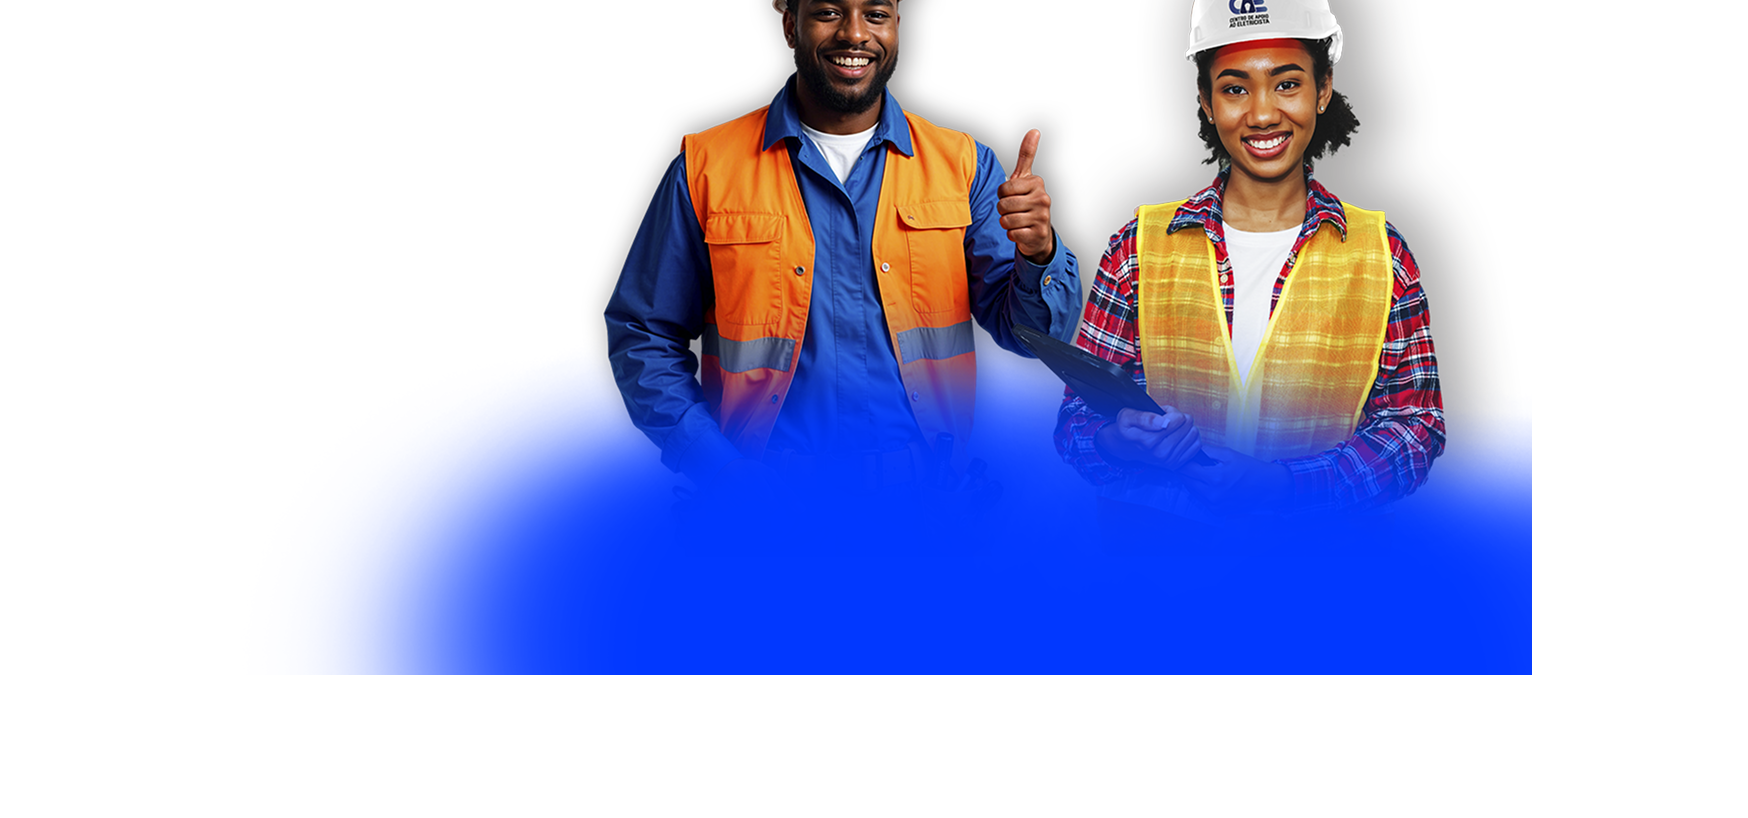
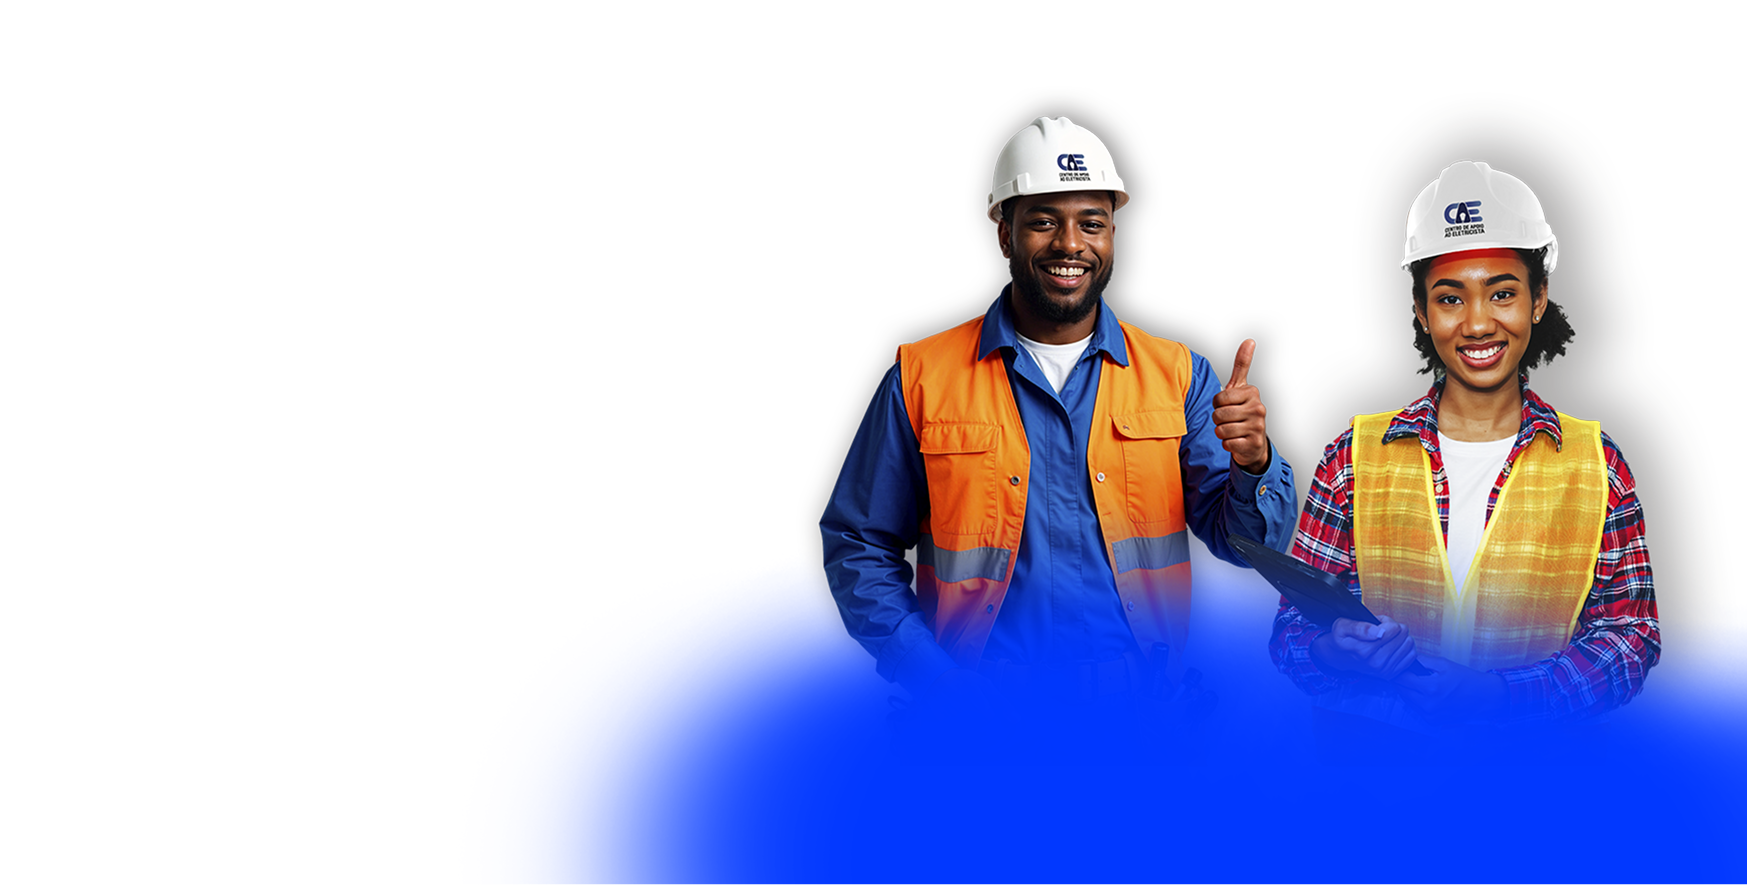
feat: layout repaginado

diff --git a/src/components/HeroSection.tsx b/src/components/HeroSection.tsx
@@ -1,4 +1,4 @@
-import { Gift, ThumbsUp, Award, Medal, Zap, CheckCircle } from "lucide-react";
+import { Gift, ThumbsUp, Award, HardHat , Medal, Zap, CheckCircle } from "lucide-react";
 
 interface HeroSectionProps {
   onParticipate: () => void;
@@ -25,74 +25,74 @@ const RedAccent = ({ className }: { className?: string }) => (
 const HeroSection = ({ onParticipate, onRegulation }: HeroSectionProps) => {
   return (
     <>
-      {/* Header */}
-      <header className="nav-header text-white">
-        <div className="container max-w-7xl mx-auto px-4">
-          {/* Top bar */}
-          <div className="flex items-center justify-between py-2 text-sm border-b border-white/10">
-            <a href="mailto:contato@eletricabahiana.com.br" className="text-white/70 hover:text-white transition-colors text-xs">
-              contato@eletricabahiana.com.br
-            </a>
-            <span className="text-blue-300 font-medium text-xs">Mais forte por você!</span>
-          </div>
-          
-          {/* Navigation */}
-          <nav className="flex items-center justify-between py-4">
-            <div className="flex items-center gap-4">
-              {/* Logos */}
-              <div className="flex items-center gap-3">
-                <div className="flex items-center gap-2">
-                  <div className="bg-white rounded px-2 py-1">
-                    <span className="text-[#0A1F5C] font-black text-lg">CAE</span>
+        {/* Header */}
+        <header className="nav-header text-white fixed top-0 left-0 right-0 z-50">
+          <div className="container max-w-7xl mx-auto px-4">
+            {/* Navigation - Single row */}
+            <nav className="flex items-center justify-between py-3">
+              <div className="flex items-center gap-4">
+                {/* Logos */}
+                <div className="flex items-center gap-3">
+                  {/* CAE Logo */}
+                  <div className="flex items-center gap-2">
+                    <img 
+                      src="/caelogo.png" 
+                      alt="CAE Logo" 
+                      className="h-8 w-auto brightness-0 invert"
+                    />
                   </div>
-                  <div className="text-white text-xs leading-tight hidden sm:block">
-                    <span className="font-bold">CENTRO DE APOIO</span>
-                    <br />
-                    <span className="font-bold">AO ELETRICISTA</span>
-                  </div>
-                </div>
-                <div className="w-px h-8 bg-white/30 mx-2 hidden sm:block" />
-                <div className="flex items-center gap-2 hidden sm:flex">
-                  <div className="text-red-500 font-black text-2xl">EB</div>
-                  <div className="text-white text-xs leading-tight">
-                    <span className="font-bold text-red-500">ELÉTRICA</span>
-                    <br />
-                    <span className="font-bold text-red-500">BAHIANA</span>
-                    <br />
-                    <span className="text-[10px] text-white/70">MAIS FORTE POR VOCÊ!</span>
-                  </div>
+                  
+                  {/* Divider */}
+                  <div className="w-px h-8 bg-white/30 mx-1" />
+                  
+                    <div className="flex items-center gap-2">
+                      <img 
+                        src="/logo.png" 
+                        alt="Elétrica Bahiana Logo" 
+                        className="h-16 w-auto brightness-0 invert"
+                      />
+                    </div>
                 </div>
               </div>
-            </div>
-            
-            <div className="hidden md:flex items-center gap-8">
-              <a href="#beneficios" className="text-white/90 hover:text-white transition-colors font-medium text-sm">
-                Benefícios
-              </a>
-              <a href="#como-funciona" className="text-white/90 hover:text-white transition-colors font-medium text-sm">
-                Como Funciona
-              </a>
-              <a href="#regulamento" className="text-white/90 hover:text-white transition-colors font-medium text-sm">
-                Regulamento
-              </a>
-              <button 
-                onClick={onParticipate}
-                className="bg-red-600 hover:bg-red-500 px-6 py-2 rounded-md font-semibold transition-all text-sm"
-              >
-                Cadastre-se
-              </button>
-            </div>
+              
+              {/* Navigation Menu */}
+              <div className="hidden md:flex items-center gap-6">
+                <a href="#beneficios" className="text-white hover:text-blue-200 transition-colors font-medium text-sm">
+                  Benefícios
+                </a>
+                <a href="#como-funciona" className="text-white hover:text-blue-200 transition-colors font-medium text-sm">
+                  Como Funciona
+                </a>
+                <a href="#regulamento" className="text-white hover:text-blue-200 transition-colors font-medium text-sm">
+                  Regulamento
+                </a>
+                <button 
+                  onClick={() => {
+                    console.log("Botão Cadastre-se clicado!");
+                    onParticipate();
+                  }}
+                  className="bg-red-600 hover:bg-red-500 px-6 py-2 rounded-full font-semibold transition-all text-sm border-2 border-white shadow-lg"
+                >
+                  Cadastre-se
+                </button>
+              </div>
 
-            {/* Mobile menu button */}
-            <button onClick={onParticipate} className="md:hidden bg-red-600 px-4 py-2 rounded-md text-sm font-semibold">
-              Cadastrar
-            </button>
-          </nav>
-        </div>
-      </header>
+              {/* Mobile menu button */}
+              <button 
+                onClick={() => {
+                  console.log("Botão Mobile clicado!");
+                  onParticipate();
+                }} 
+                className="md:hidden bg-red-600 px-4 py-1.5 rounded-full text-xs font-semibold border-2 border-white"
+              >
+                Cadastrar
+              </button>
+            </nav>
+          </div>
+        </header>
 
       {/* Hero Section */}
-      <section className="relative min-h-[85vh] flex items-center overflow-hidden" style={{ background: 'linear-gradient(135deg, #0A1F5C 0%, #1E3A8A 40%, #2563EB 100%)' }}>
+      <section className="relative min-h-[85vh] flex items-end overflow-hidden pt-24" style={{ background: 'linear-gradient(135deg, #0A1F5C 0%, #1E3A8A 40%, #2563EB 100%)' }}>
         {/* Hexagon decorations - Left side */}
         <div className="absolute left-0 top-1/4 -translate-x-1/2 opacity-30">
           <HexagonOutline className="w-40 h-46 text-white/30" />
@@ -116,10 +116,10 @@ const HeroSection = ({ onParticipate, onRegulation }: HeroSectionProps) => {
         <RedAccent className="absolute left-8 top-1/3 w-4 h-24 rounded-sm opacity-80" />
         <RedAccent className="absolute right-12 top-16 w-4 h-16 rounded-sm opacity-80" />
 
-        <div className="container max-w-7xl mx-auto px-4 py-16 relative z-10">
-          <div className="grid grid-cols-1 lg:grid-cols-2 gap-8 items-center">
+        <div className="container max-w-7xl mx-auto px-4 pt-16 pb-0 relative z-10 h-full flex items-end">
+          <div className="grid grid-cols-1 lg:grid-cols-2 gap-8 items-center w-full">
             {/* Left Content */}
-            <div className="max-w-xl">
+            <div className="max-w-xl pb-20 lg:pb-32">
               {/* Badge */}
               <div className="mb-6">
                 <div className="inline-flex items-center gap-2 bg-white/10 backdrop-blur-sm px-4 py-2 rounded-full border border-white/20">
@@ -142,50 +142,67 @@ const HeroSection = ({ onParticipate, onRegulation }: HeroSectionProps) => {
                 Cadastre-se agora, acumule pontos a cada compra e treinamento e troque por prêmios exclusivos!
               </p>
 
-              {/* CTA Buttons */}
-              <div className="flex flex-wrap gap-4">
-                <button onClick={onParticipate} className="btn-hero">
-                  Quero Participar
-                </button>
-                <button onClick={onRegulation} className="btn-outline-hero">
-                  Ver Regulamento
-                </button>
-              </div>
+                {/* CTA Buttons */}
+                <div className="flex flex-wrap gap-4">
+                  <button 
+                    onClick={() => {
+                      console.log("Botão Participar clicado!");
+                      onParticipate();
+                    }} 
+                    className="btn-hero relative z-50"
+                    style={{ pointerEvents: 'auto' }}
+                  >
+                    Quero Participar
+                  </button>
+                  <button 
+                    onClick={() => {
+                      console.log("Botão Regulamento clicado!");
+                      onRegulation();
+                    }} 
+                    className="btn-outline-hero relative z-50"
+                    style={{ pointerEvents: 'auto' }}
+                  >
+                    Ver Regulamento
+                  </button>
+                </div>
             </div>
 
-            {/* Right Content - Electricians Image */}
-            <div className="relative hidden lg:block">
-              {/* Main image placeholder - using the provided banner image */}
-              <div className="relative">
+            {/* Right Content - Image */}
+            <div className="relative hidden lg:flex h-full items-end justify-end">
+              <div className="relative z-10 flex justify-end items-end transform transition-transform hover:scale-105 duration-700">
                 <img 
-                  src="public/img-hero.png"
+                  src="/img-hero.png" 
                   alt="Eletricistas CAE"
-                  className="w-full h-auto object-contain"
-                  style={{ maxHeight: '500px' }}
+                  className="object-contain drop-shadow-2xl"
+                  style={{ 
+                    height: '85vh',
+                    width: 'auto',
+                    maxWidth: 'none'
+                  }} 
                 />
               </div>
 
-              {/* Feature icons at bottom */}
-              <div className="absolute -bottom-4 left-1/2 -translate-x-1/2 flex gap-3">
-                <div className="w-16 h-16 bg-white/10 backdrop-blur-sm rounded-xl flex items-center justify-center border border-white/20">
-                  <Gift className="w-7 h-7 text-white" />
+                {/* Feature icons at bottom - Centralized below image */}
+                <div className="absolute bottom-16 left-1/2 -translate-x-1/2 flex gap-3 items-end z-20">
+                  <div className="w-20 h-20 bg-blue-700/30 backdrop-blur-md rounded-xl flex items-center justify-center border-2 border-blue-300/50 shadow-xl hover:bg-blue-700/40 transition-all mb-8">
+                    <Gift className="w-9 h-9 text-white" strokeWidth={2} />
+                  </div>
+                  <div className="w-20 h-20 bg-blue-700/30 backdrop-blur-md rounded-xl flex items-center justify-center border-2 border-blue-300/50 shadow-xl hover:bg-blue-700/40 transition-all mb-0">
+                    <ThumbsUp className="w-9 h-9 text-white" strokeWidth={2} />
+                  </div>
+                  <div className="w-20 h-20 bg-blue-700/30 backdrop-blur-md rounded-xl flex items-center justify-center border-2 border-blue-300/50 shadow-xl hover:bg-blue-700/40 transition-all mb-8">
+                    <HardHat className="w-9 h-9 text-white" strokeWidth={2} />
+                  </div>
+                  <div className="w-20 h-20 bg-blue-700/30 backdrop-blur-md rounded-xl flex items-center justify-center border-2 border-blue-300/50 shadow-xl hover:bg-blue-700/40 transition-all mb-0">
+                    <Medal className="w-9 h-9 text-white" strokeWidth={2} />
+                  </div>
                 </div>
-                <div className="w-16 h-16 bg-white/10 backdrop-blur-sm rounded-xl flex items-center justify-center border border-white/20">
-                  <ThumbsUp className="w-7 h-7 text-white" />
-                </div>
-                <div className="w-16 h-16 bg-white/10 backdrop-blur-sm rounded-xl flex items-center justify-center border border-white/20">
-                  <Award className="w-7 h-7 text-white" />
-                </div>
-                <div className="w-16 h-16 bg-white/10 backdrop-blur-sm rounded-xl flex items-center justify-center border border-white/20">
-                  <Medal className="w-7 h-7 text-white" />
-                </div>
-              </div>
             </div>
           </div>
         </div>
 
         {/* Wave divider */}
-        <div className="absolute bottom-0 left-0 right-0">
+        <div className="absolute bottom-0 left-0 right-0 z-30">
           <svg viewBox="0 0 1440 120" fill="none" className="w-full">
             <path d="M0 120L60 110C120 100 240 80 360 70C480 60 600 60 720 65C840 70 960 80 1080 85C1200 90 1320 90 1380 90L1440 90V120H1380C1320 120 1200 120 1080 120C960 120 840 120 720 120C600 120 480 120 360 120C240 120 120 120 60 120H0Z" fill="#f8fafc"/>
           </svg>
@@ -247,7 +264,13 @@ const HeroSection = ({ onParticipate, onRegulation }: HeroSectionProps) => {
           </div>
 
           <div className="text-center mt-12">
-            <button onClick={onParticipate} className="btn-primary text-lg px-10 py-4">
+            <button 
+              onClick={() => {
+                console.log("Botão Começar Agora clicado!");
+                onParticipate();
+              }} 
+              className="btn-primary text-lg px-10 py-4"
+            >
               Começar Agora
             </button>
           </div>

diff --git a/src/components/Footer.tsx b/src/components/Footer.tsx
@@ -73,14 +73,13 @@ const Footer = () => {
           <div className="md:col-span-1">
             <div className="flex items-center gap-3 mb-4">
               <div className="flex items-center gap-2">
-                <div className="bg-white rounded px-2 py-1">
-                  <span className="text-[#0A1F5C] font-black text-lg">CAE</span>
-                </div>
-                <div className="text-white text-xs leading-tight">
-                  <span className="font-bold">CENTRO DE APOIO</span>
-                  <br />
-                  <span className="font-bold">AO ELETRICISTA</span>
-                </div>
+                  <div className="flex items-center gap-2">
+                    <img 
+                      src="/caelogo.png" 
+                      alt="CAE Logo" 
+                      className="h-8 w-auto brightness-0 invert"
+                    />
+                  </div>
               </div>
             </div>
             <p className="text-blue-200 text-sm leading-relaxed">
